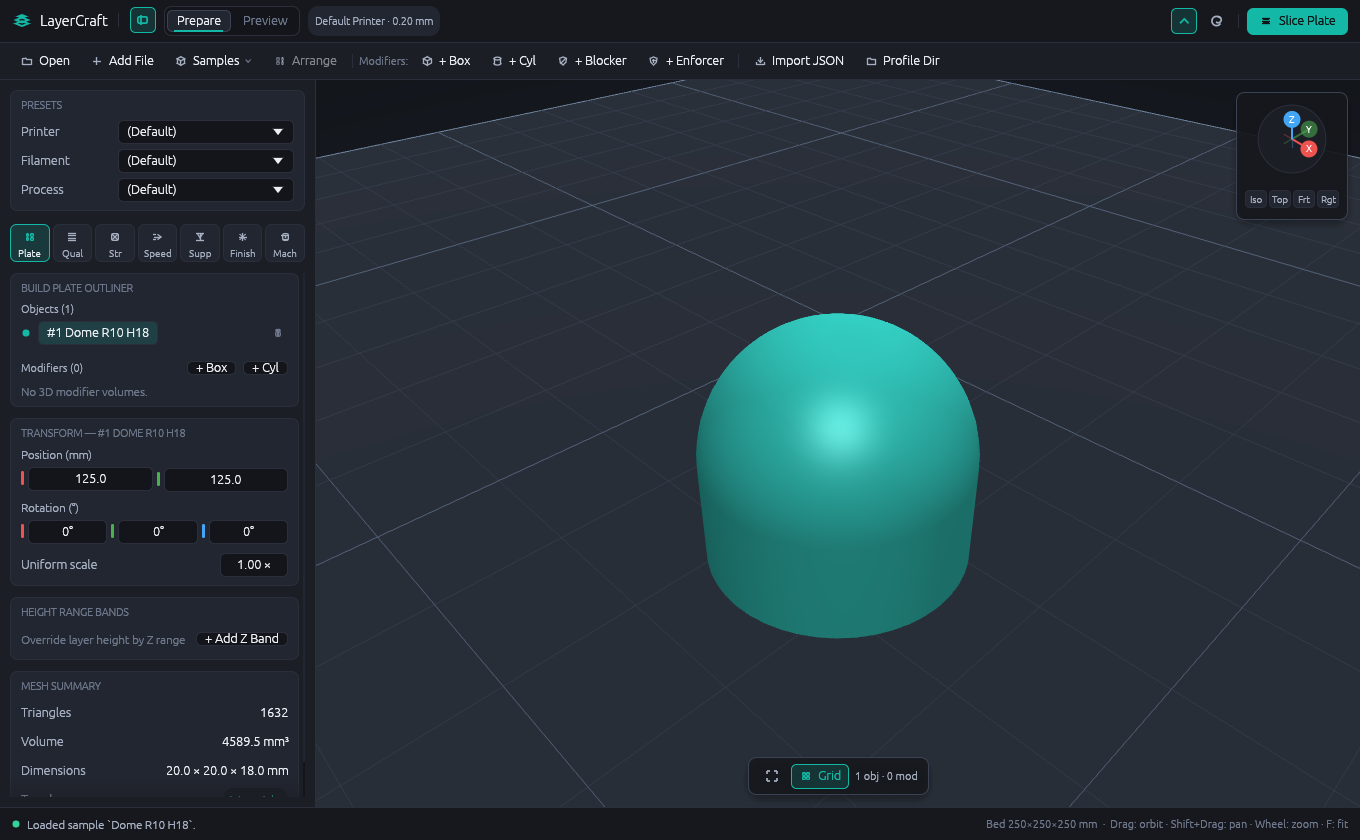
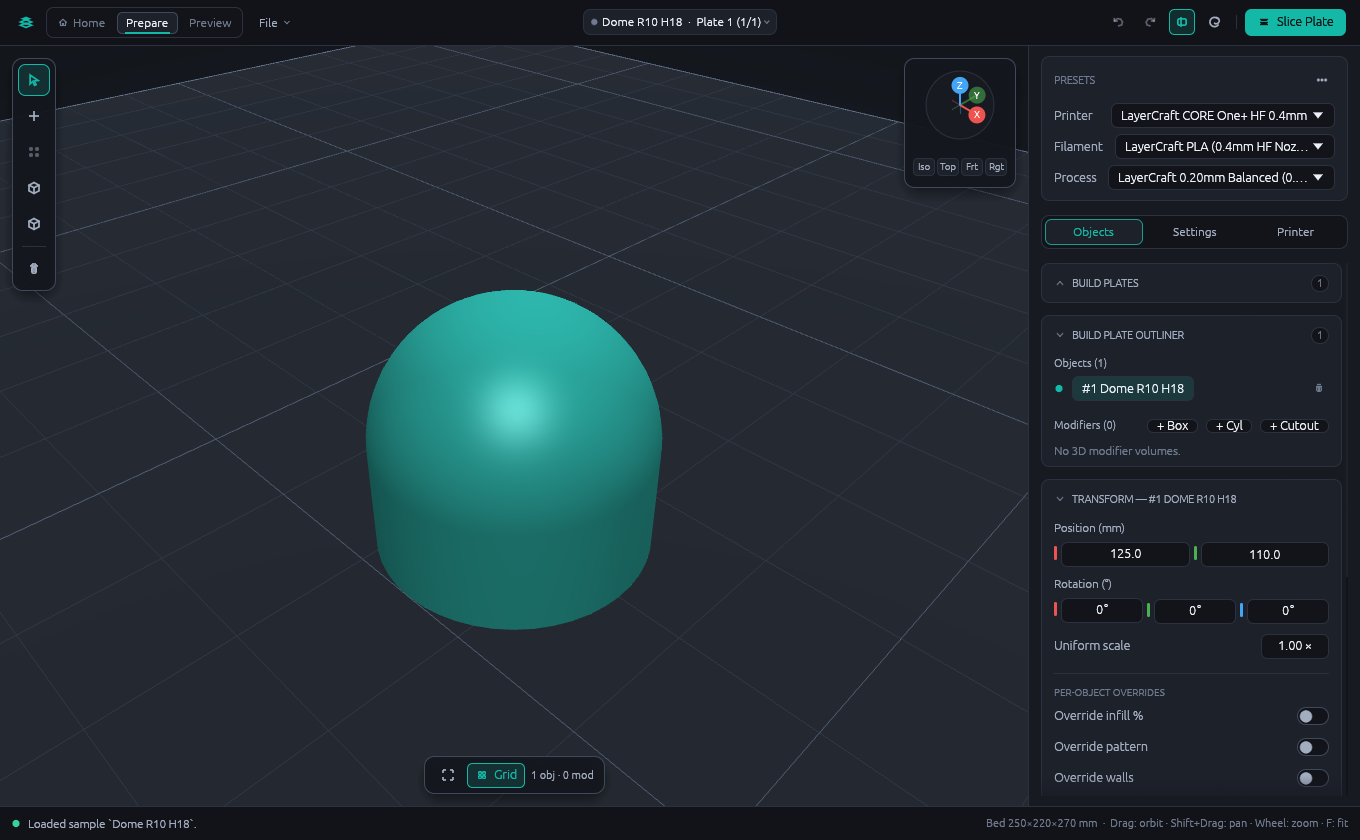
docs: update README and refresh Studio screenshots

diff --git a/README.md b/README.md
@@ -6,7 +6,7 @@
 
 <p align="center">
   <strong>An open-source, clean-room 3D printer slicer built in pure Rust — designed from the ground up for both humans and AI agents.</strong><br />
-  Slice STL and 3MF meshes with fixed-point geometry, inspect toolpaths visually, verify G-code physics, and let AI agents drive every step through the built-in MCP server. Runs natively on desktop, in the browser via WebAssembly, and headlessly via CLI.
+  Slice STL and multi-plate 3MF meshes with fixed-point geometry, repair broken meshes, preview toolpaths and live G-code, upload `.bgcode` directly to LAN printers, and let AI agents drive every step through the built-in MCP server. Runs natively on desktop, in the browser via WebAssembly + Web Workers, and headlessly via CLI.
 </p>
 
 <p align="center">
@@ -28,17 +28,25 @@
 </p>
 
 <p align="center">
-  <img src="docs/screenshots/preview-dark.png" alt="LayerCraft Dark Studio Preview — 90-layer sliced dome with 4x MSAA viewport, floating ViewCube, vertical layer scrubber, and print metrics HUD" />
+  <img src="docs/screenshots/preview-dark.png" alt="LayerCraft Modern Studio Canvas — 90-layer sliced dome with 4x MSAA viewport, floating ViewCube, unified playback & view dock, vertical layer scrubber, filtered feature legend, and right inspector" />
 </p>
 
 <p align="center">
-  <em>LayerCraft Desktop Studio (Dark Studio theme, 4× MSAA <code>wgpu</code> viewport): a 90-layer sliced dome inspected with floating ViewCube navigation, per-feature toolpath coloring, interactive vertical layer scrubbing, and live print metrics.</em>
+  <em>LayerCraft Modern Studio Canvas (Dark Studio theme, 4× MSAA <code>wgpu</code> viewport): a 90-layer sliced dome inspected with GPU-instanced rounded beads, floating ViewCube navigation, filtered Feature Legend + <code>Color by</code> modes, unified move-playback dock, vertical layer scrubber, and right-docked <code>Objects | Settings | Printer</code> inspector.</em>
 </p>
 
-| Dark Studio — Prepare | Light Drafting — Preview |
+| Home — Recent Projects Hub | Dark Studio — Prepare |
 |---|---|
-| ![Dark Studio Prepare](docs/screenshots/prepare-dark.png) | ![Light Drafting Preview](docs/screenshots/preview-light.png) |
-| Build plate setup, hierarchical Plate Outliner, contextual Print / Filament / Supports / Output ribbon, and preset card. | Light Drafting theme inspecting 90-layer toolpaths cleanly against translucent HUD overlays. |
+| ![Home Recent Projects](docs/screenshots/home-dark.png) | ![Dark Studio Prepare](docs/screenshots/prepare-dark.png) |
+| Dedicated startup hub with searchable 3D plate thumbnails (desktop JSON + WASM IndexedDB cache), Quick Start shapes, and Active Setup summary. | Sleek 44px header with compact Project/Plate selector, left floating tool rail, 4× MSAA build plate canvas, and collapsible Outliner & Transform inspector. |
+
+<p align="center">
+  <img src="docs/screenshots/preview-light.png" alt="LayerCraft Light Drafting Preview — 90-layer sliced dome with translucent HUD overlays and right inspector" />
+</p>
+
+<p align="center">
+  <em>Light Drafting theme inspecting 90-layer toolpaths cleanly against translucent HUD overlays and the right inspector.</em>
+</p>
 
 ---
 
@@ -50,7 +58,7 @@ A core goal of LayerCraft is making **3D printing workflows first-class for AI a
 - **Token-efficient discovery, patching & atomic batches:** Agents list concise command summaries (`list_commands`), fetch schemas on demand (`describe_command`), tweak individual fields (`config_patch`), and combine steps safely with rollback (`batch`).
 - **Printability & DFM diagnostics:** `analyze_printability` reports overhang risk, detached floating islands, thin-wall collapses, bed adhesion metrics, and per-feature filament/time breakdowns with remediation hints.
 - **Visual closed-loop & A/B inspection:** `screenshot` renders `plate`, `preview`, or `layer_top_down` PNGs, while `compare_slices` and `compare_screenshot` compare two configs quantitatively and visually with a 3-panel `A | B | Diff` composite.
-- **Direct verified G-code export:** `save_gcode` writes `.gcode` straight to disk and runs physical invariant checks (non-finite values, out-of-bounds moves, layer continuity, volumetric flow, Z-hops, arcs) without flooding agent context.
+- **Direct verified G-code / `.bgcode` export & LAN upload:** `save_gcode` writes `.gcode` or binary `.bgcode` straight to disk and runs physical invariant checks (non-finite values, out-of-bounds moves, layer continuity, volumetric flow, Z-hops, arcs), while `printer_status` and `upload_to_printer` inspect and stream prints to configured LAN printers.
 - **Natural companion to CAD MCP servers:** Pair LayerCraft with an upstream CAD MCP server (such as [SolidCraft](https://github.com/tangency-labs/solidcraft)) so an agent can generate parametric geometry, load the exported STL/3MF live onto LayerCraft's plate, tune settings or modifier volumes, inspect screenshots, and produce verified G-code in one loop.
 
 ### Connect in Seconds
@@ -82,16 +90,17 @@ Or add to any MCP client (`Claude Desktop`, `Cursor`, `Antigravity`):
 
 ### MCP Highlights (`layercraft-mcp`)
 
-16 MCP tools + 3 MCP resources (`layercraft://skill`, `layercraft://plate/summary`, `layercraft://commands`), including:
+18 MCP tools + 4 MCP resources (`layercraft://skill`, `layercraft://plate/summary`, `layercraft://commands`, `layercraft://printers`), including:
 
 | Tool | What the Agent Gets |
 |---|---|
 | `version` / `set_view` | Check `live_studio` vs `headless` connection state and steer Studio view mode, camera, layer, and color mode. |
-| `list_commands` / `describe_command` | Compact schema-on-demand discovery across all **33** `layercraft-engine` commands. |
+| `list_commands` / `describe_command` | Compact schema-on-demand discovery across all **57** `layercraft-engine` commands. |
 | `execute` / `batch` / `config_patch` | Run single commands, rollback-safe atomic batches, or partial `PrintConfig` patches. |
 | `analyze_printability` | Overhang area, floating islands, thin-wall checks, bed contact ratio, and per-feature filament/time breakdown. |
 | `screenshot` / `compare_screenshot` / `compare_slices` | Inline PNG inspection (including live `camera: "current"` + `sync_view`), 3-panel `A \| B \| Diff` renders, and 2D IoU slice diffs. |
-| `save_gcode` | Write G-code directly to disk with built-in physical safety evaluation. |
+| `save_gcode` | Write `.gcode` or binary `.bgcode` directly to disk with built-in physical safety evaluation. |
+| `printer_status` / `upload_to_printer` | Query live printer state/temps and upload verified prints directly over LAN (PrusaLink, Prusa Connect Local, OctoPrint, Moonraker). |
 | `skill_reference` | Built-in `SKILL.md` workflow and DFM guide (`skills/layercraft/SKILL.md`). |
 
 Full MCP setup, Live Studio flags (`--connect`, `--standalone`, `--socket`), parameter schemas, and agent walkthrough: **[docs/mcp.md](docs/mcp.md)**.
@@ -102,14 +111,15 @@ Full MCP setup, Live Studio flags (`--connect`, `--standalone`, `--socket`), par
 
 Everything below runs through the same pure-Rust engine across the desktop app, browser app, headless CLI, and MCP server:
 
-- **Fixed-Point `i64` Nanometer Slicing & Wall Generation:** Exact Z-plane triangle slicing, classic perimeter offsetting, and Voronoi medial-axis **Arachne** variable-width walls (`layercraft-clip` + `layercraft-slice`) that eliminate thin-wall gaps and collapses.
-- **Surfaces, Infill & Motion Finish:** Top/bottom skin detection, monotonic top/bottom solid fill, Rectilinear, Grid, 3D Gyroid, and 3D Cubic infill patterns, top-surface low-flow monotonic ironing, outer-wall ramped scarf seams, and `G2`/`G3` circular arc fitting.
+- **Fixed-Point `i64` Nanometer Slicing & High-Poly Parallel Engine:** Exact Z-plane triangle slicing, classic perimeter offsetting, Voronoi medial-axis **Arachne** variable-width walls (`layercraft-clip` + `layercraft-slice`), Z-interval triangle bucketing, spatial `MaskClipIndex`, and deterministic multi-threaded desktop slicing + browser Web Worker execution.
+- **Surfaces, Per-Object Slicing & Motion Finish:** Monotonic/concentric top and bottom skins, Rectilinear, Grid, 3D Gyroid, and 3D Cubic infill, thin gap fill, per-object overrides with `EXCLUDE_OBJECT`/`M486` cancel-object and sequential `ByObject` clearance checks, top-surface low-flow monotonic ironing, outer-wall ramped scarf seams, progressive overhang slowdown, mid-layer fan modulation, scheduled per-Z pause/`M600`/custom G-code events, and `G2`/`G3` circular arc fitting.
 - **Bridges, Overhangs & Supports:** Anchored bridge orientation and cooling/flow tuning, overhang wall detection and slowdown, **Grid** and **Snug** automatic supports, and model-avoiding branching **Organic Tree** supports with hollow trunks, dense interface layers, and build-plate-only routing.
-- **Adaptive Layers & 3D Modifier Volumes:** Curvature-driven adaptive layer heights (`0.08–0.28 mm` and custom schedules), explicit Z height-range bands, physical shell thicknesses, and primitive (`box`/`cylinder`) or arbitrary STL/3MF `Modifier`, `SupportBlocker`, and `SupportEnforcer` volumes.
-- **Printer-Ready G-code & JSON Profiles:** `Klipper`, `Marlin`, and Prusa `MarlinBuddy` emitters with volumetric flow capping, pressure/linear advance, per-role acceleration, chamber heating, `M73` progress, and safe `{if}/{elsif}/{else}` + arithmetic macro templates. Includes built-in starter presets (`LayerCraft Generic Klipper 250mm`, `LayerCraft Generic Marlin 220mm`, `LayerCraft CORE One+ HF 0.2mm`, `LayerCraft CORE One+ HF 0.4mm`) and Orca/Bambu-compatible JSON profile inheritance.
-- **Studio Desktop App, Browser WASM, CLI & MCP:** Native `eframe` + `4× MSAA` `wgpu` studio with Dark Studio / Light Drafting / System themes, interactive ViewCube & layer scrubber, browser WASM build (`apps/layercraft-web`), headless PNG & G-code CLI, and JSON-RPC 2.0 MCP server.
+- **Adaptive Layers & 3D Modifier Volumes:** Curvature-driven adaptive layer heights (`0.08–0.28 mm` and custom schedules), explicit Z height-range bands, physical shell thicknesses, and primitive (`box`/`cylinder`) or arbitrary STL/3MF `Modifier`, `SupportBlocker`, `SupportEnforcer`, and `NegativePart` volumes.
+- **Multi-Plate `.3mf` Projects, Mesh Repair & DFM Safety:** Full multi-part & multi-plate `.3mf` project import/export, bounded undo/redo history, deterministic STL/3MF mesh repair (`repair_mesh` welding, manifold orientation, and hole filling), live out-of-bounds/overlap plate warnings, and Printability / DFM diagnostics with one-click fixes.
+- **Binary G-code (`.bgcode`), Profiles & Direct LAN Upload:** `Klipper`, `Marlin`, and Prusa `MarlinBuddy` emitters with `.bgcode` v1 (Heatshrink/Deflate + PNG/QOI xLCD thumbnails), volumetric flow capping, pressure/linear advance, per-role acceleration, chamber heating, `M73` progress, and `{if}/{elsif}/{else}` macro templates. Includes Prusa CORE One+ HF (`0.2mm`/`0.4mm` + PLA/PETG/ASA/TPU 95A) & generic starter presets, Orca/Bambu JSON profile inheritance, custom user preset saving, and direct LAN upload to `PrusaLink`, `Prusa Connect Local`, `OctoPrint`, and `Moonraker` with OS keychain credential storage.
+- **Modern Studio Canvas UI, Recent Projects Hub & Browser WASM:** Native `eframe` + `4× MSAA` `wgpu` studio featuring a startup **Home** hub with searchable 3D plate thumbnails (`recent_projects.json` on desktop, `localStorage` + IndexedDB in WASM), a 44px top workspace bar, floating `Prepare` tool rail, right-docked searchable `Objects | Settings | Printer` inspector, 7 `Color by` Preview modes, synchronized virtualized G-code viewer, intra-layer move playback scrubber with 3D nozzle marker, and responsive browser WASM app (`apps/layercraft-web`).
 
-See [docs/architecture.md](docs/architecture.md) for crate structure and [ROADMAP.md](ROADMAP.md) for completed milestones and upcoming phases (`.3mf` project files, parallel/sweep-line slicing, mesh repair).
+See [docs/architecture.md](docs/architecture.md) for crate structure, [docs/core-one-signoff.md](docs/core-one-signoff.md) for the Prusa CORE One+ hardware validation checklist, and [ROADMAP.md](ROADMAP.md) for completed phases (`0`–`6D`) and post-v1.0 items.
 
 ---
 
@@ -118,27 +128,30 @@ See [docs/architecture.md](docs/architecture.md) for crate structure and [ROADMA
 ### Desktop App
 
 ```sh
-cargo run --release -p layercraft                                   # desktop studio GUI
+cargo run --release -p layercraft                                   # open Studio on Home / Recent Projects hub
 cargo run --release -p layercraft -- --sample dome --preview        # launch with sliced sample dome
 cargo run --release -p layercraft -- --sample dome --theme light    # Light Drafting theme
-cargo run --release -p layercraft -- --sample dome --preview --screenshot preview.png
+cargo run --release -p layercraft -- --home --screenshot home.png   # headless PNG render of Home hub
 ```
 
 ### Headless CLI
 
 ```sh
 cargo run -p layercraft-cli -- slice part.stl -o part.gcode
+cargo run -p layercraft-cli -- slice part.stl -o part.bgcode --binary --repair
+cargo run -p layercraft-cli -- repair broken.stl -o fixed.stl
 cargo run -p layercraft-cli -- profiles
 cargo run -p layercraft-cli -- render part.stl -o preview.png --mode preview
 cargo run -p layercraft-cli -- eval part.gcode
 cargo run -p layercraft-cli -- compare a.gcode b.gcode
+cargo run -p layercraft-cli -- printer test --protocol prusa-link --url http://printer.local --api-key ...
 cargo run -p layercraft-cli -- commands
 cargo run -p layercraft-cli -- mcp
 ```
 
 ### Browser (WASM)
 
-All core crates (`L0`–`L4`), software/GPU viewports, and the shared `egui` studio compile cleanly to `wasm32-unknown-unknown`:
+All core crates (`L0`–`L4`), software/GPU viewports, background `slice_worker` Web Worker slicing, IndexedDB recent projects cache, and the shared `egui` studio compile cleanly to `wasm32-unknown-unknown`:
 
 ```sh
 cd apps/layercraft-web && trunk serve
